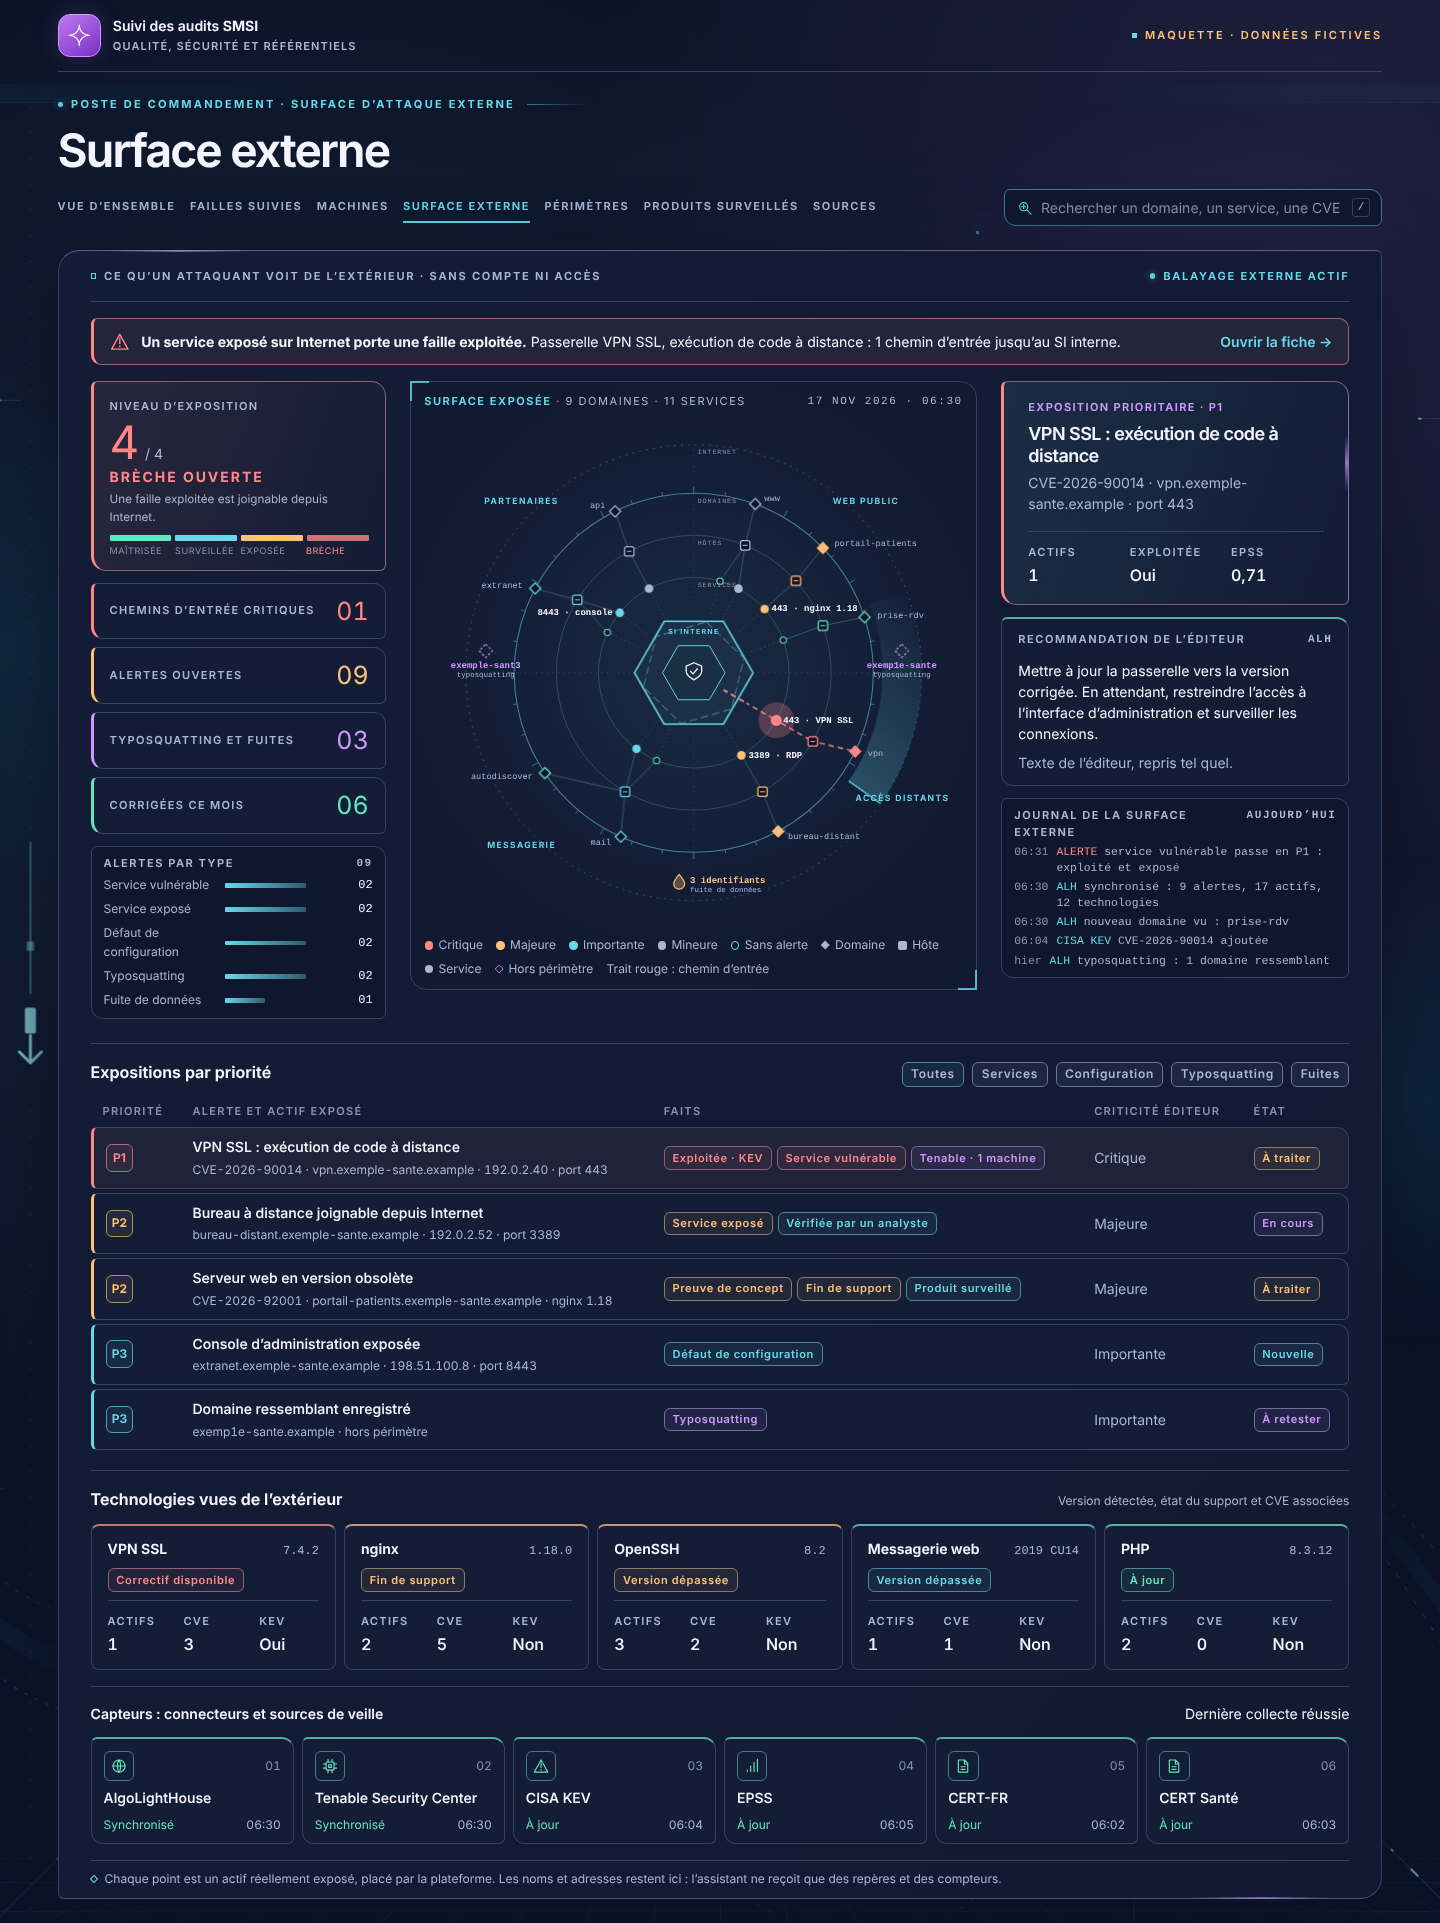
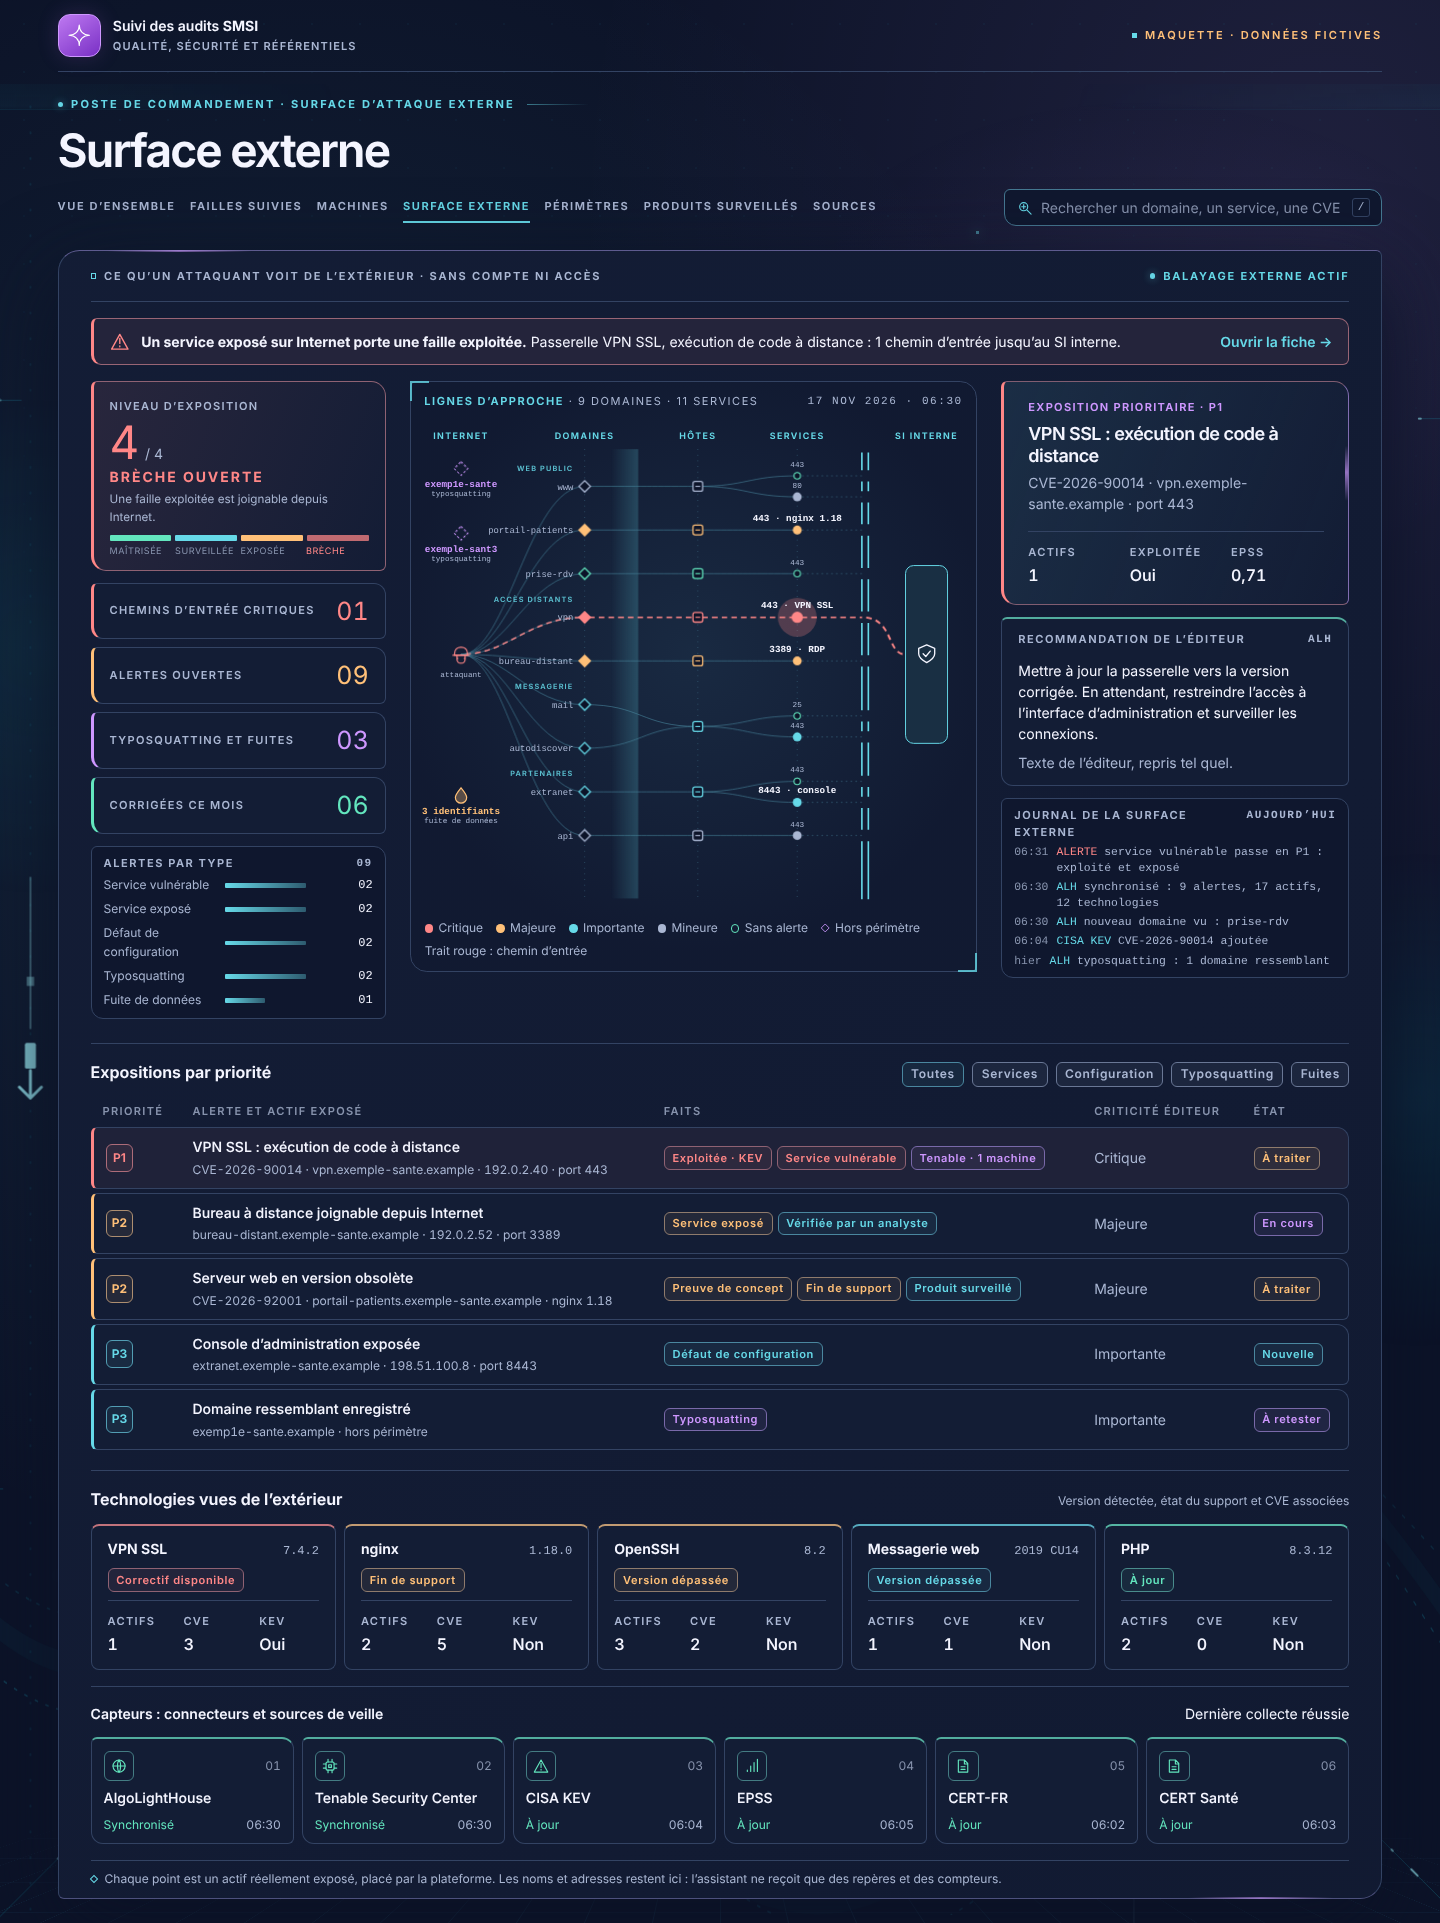
docs(vulnerabilites): carte « lignes d'approche » retenue pour la surface externe (ADR 0100)
Choix du RSSI du 17/11/2026 parmi trois alternatives au radar. La maquette de l'écran reprend cette carte ;
les deux variantes écartées restent pour mémoire.

Session : « Module surveillance vulnérabilités SMSI » (session_01EnWdzdnc8fBi6Yrc154Jy6)

Claude-Session: https://claude.ai/code/session_01EnWdzdnc8fBi6Yrc154Jy6

diff --git a/docs/unification/CADRAGE-MODULE-VULNERABILITES.md b/docs/unification/CADRAGE-MODULE-VULNERABILITES.md
@@ -73,7 +73,7 @@ Elles ne montrent ni le menu latéral de l'application, ni le thème clair, ni l
 | Vue par périmètre | [05-perimetre](maquettes-vulnerabilites/05-perimetre.png) | Front, back applicatif et bases, reliés par ligne |
 | Produits surveillés | [06-produits](maquettes-vulnerabilites/06-produits.png) | Registre, origine, propositions venues d'Ekialis |
 | Alerte critique | [07-alerte-critique](maquettes-vulnerabilites/07-alerte-critique.png) | Grande fenêtre rouge affichée quand une faille est exploitée et détectée, à prendre en compte |
-| Surface externe | [08-surface-externe](maquettes-vulnerabilites/08-surface-externe.png) | Ce qu'un attaquant voit de l'extérieur : domaines, hôtes et services exposés en anneaux autour du SI interne, chemin d'entrée critique en rouge, typosquatting et fuites hors périmètre (maquette, données fictives, connecteur AlgoLightHouse) |
+| Surface externe | [08-surface-externe](maquettes-vulnerabilites/08-surface-externe.png) | Ce qu'un attaquant voit de l'extérieur. Carte « lignes d'approche », retenue par le RSSI le 17/11/2026 : de l'attaquant au SI interne en passant par les domaines, les hôtes, les services puis le rempart ; chemin d'entrée critique en rouge, typosquatting et fuites hors périmètre. Variantes écartées conservées pour mémoire : [grille d'exposition](maquettes-vulnerabilites/08b-surface-grille.png), [enceinte](maquettes-vulnerabilites/08c-surface-enceinte.png) ; la [carte seule](maquettes-vulnerabilites/08a-surface-lignes-approche.png). Maquette, données fictives, connecteur AlgoLightHouse |
 
 ## 4. Lots proposés (sans calendrier ; estimations non établies)
 
